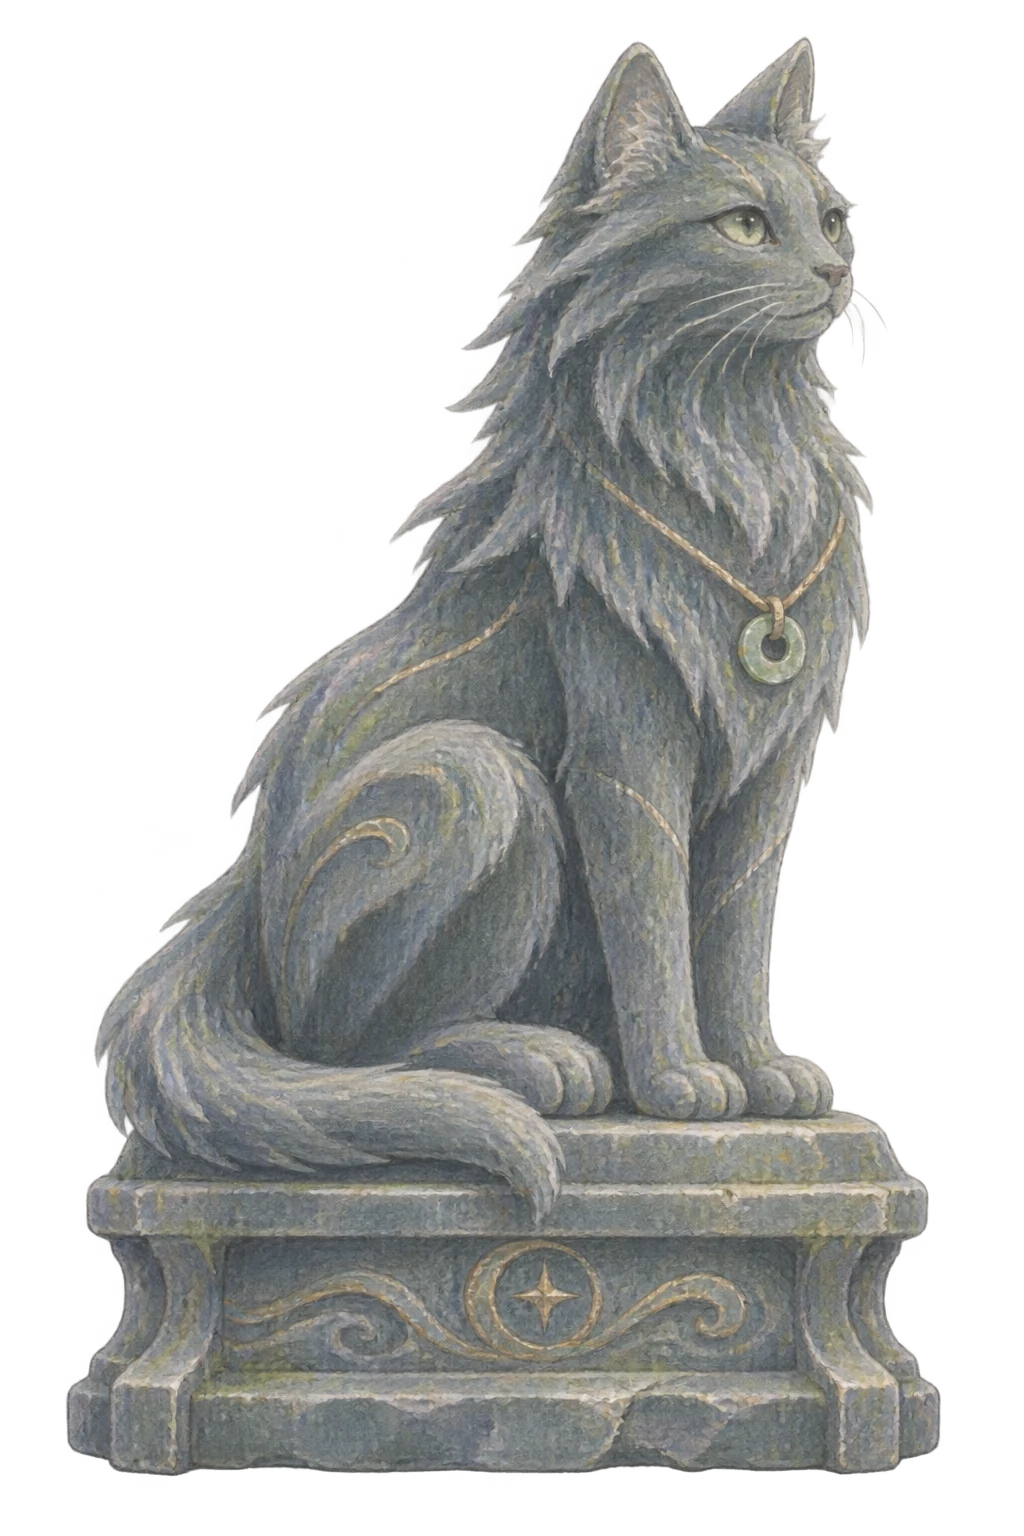
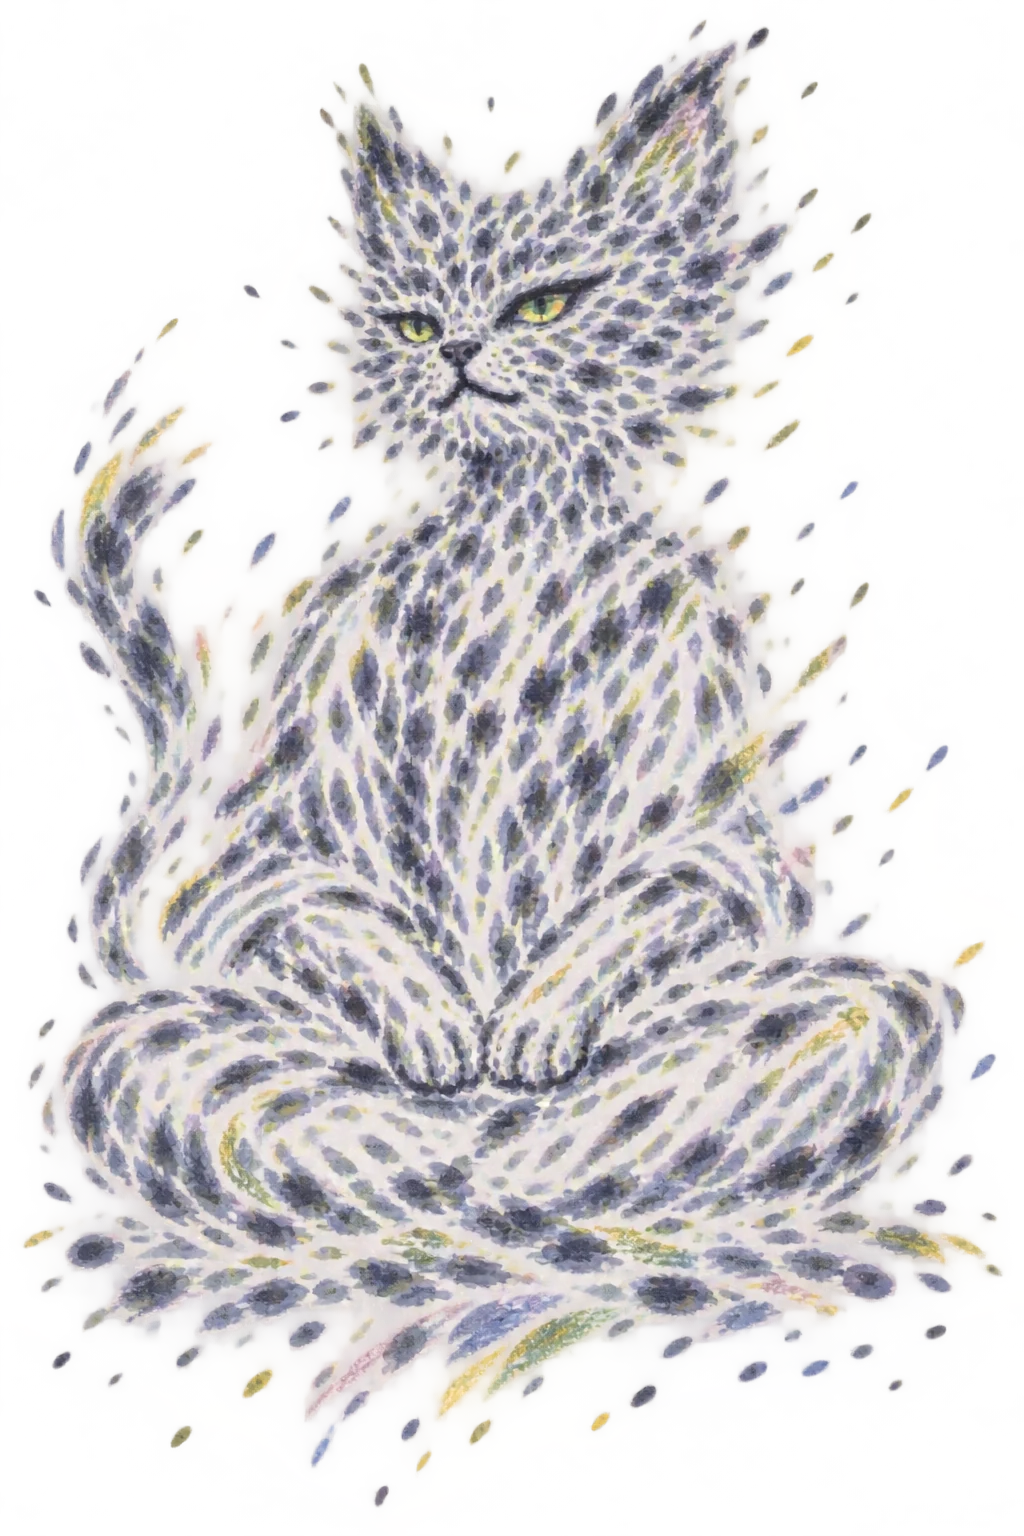
refine reboot with xieyi ink art direction

diff --git a/app/src/art-reboot/styles.css b/app/src/art-reboot/styles.css
@@ -11,11 +11,11 @@ button:focus-visible { outline: 2px solid #d2af6a; outline-offset: 3px; }
 .reboot-text-link { display: inline-flex; align-items: center; gap: 6px; padding: 8px; color: #d8cdb9; background: transparent; border: 0; cursor: pointer; }
 
 .reboot-title { position: relative; width: min(100vw, calc(100dvh * 9 / 16)); height: min(100dvh, calc(100vw * 16 / 9)); overflow: hidden; isolation: isolate; background: #5d665f; }
-.reboot-title-scene { position: absolute; inset: -4%; z-index: -1; background: url('/assets/art-reboot/temple.webp') center / cover; filter: saturate(.78) brightness(.68); animation: reboot-scene-drift 18s ease-in-out infinite alternate; }
+.reboot-title-scene { position: absolute; inset: -4%; z-index: -1; background: url('/assets/art-reboot/temple.webp') center / cover; filter: saturate(.78) brightness(.68); animation: reboot-scene-drift 18s steps(4, end) infinite alternate; }
 .reboot-title::after { content: ''; position: absolute; inset: 0; z-index: -1; background: linear-gradient(165deg, rgba(32, 35, 31, .08), rgba(32, 35, 31, .72)); pointer-events: none; }
-.reboot-title-cat { position: absolute; left: -4%; bottom: -2%; width: 64%; pointer-events: none; animation: reboot-breathe 5s ease-in-out infinite; }
+.reboot-title-cat { position: absolute; left: -4%; bottom: -2%; width: 64%; pointer-events: none; animation: reboot-breathe 5s steps(3, end) infinite; }
 .reboot-title-cat img, .reboot-title-statue img { display: block; width: 100%; }
-.reboot-title-statue { position: absolute; right: -3%; top: 19%; width: 58%; pointer-events: none; animation: reboot-statue-breathe 6s ease-in-out infinite; }
+.reboot-title-statue { position: absolute; right: -3%; top: 19%; width: 58%; pointer-events: none; animation: reboot-statue-breathe 6s steps(3, end) infinite; }
 .reboot-title-copy { position: absolute; z-index: 3; left: 7%; top: 7%; max-width: 86%; }
 .reboot-title-copy h1 { margin: 12px 0 14px; font: 500 clamp(43px, 8vw, 66px)/1.12 'Songti SC', serif; letter-spacing: .1em; text-shadow: 0 2px 18px #20231f; }
 .reboot-title-copy p { max-width: 20em; margin: 0 0 24px; color: #e1d7c4; font-size: 14px; line-height: 1.8; text-shadow: 0 2px 10px #20231f; }
@@ -40,13 +40,13 @@ button:focus-visible { outline: 2px solid #d2af6a; outline-offset: 3px; }
 .comic-panel-0 .comic-city { object-position: 48% center; }
 .comic-panel-1 .comic-city { object-position: 12% center; }
 .comic-panel-2 .comic-city { object-position: 88% center; }
-.comic-panel .comic-you { left: 4%; bottom: -8%; width: 72%; height: auto; animation: comic-cat-enter 1.2s ease both; }
+.comic-panel .comic-you { left: 4%; bottom: -8%; width: 72%; height: auto; animation: comic-cat-enter 1.2s steps(4, end) both; }
 .comic-panel .comic-statue { right: 3%; bottom: -10%; width: 42%; height: auto; animation: reboot-statue-breathe 5s ease-in-out infinite; }
 .comic-caption { position: absolute; z-index: 2; left: 0; right: 0; bottom: 0; padding: 9px 11px; background: rgba(233, 226, 211, .88); border-top: 1px solid rgba(32, 35, 31, .22); }
 .comic-caption span { color: #6c6c60; font-size: 9px; letter-spacing: .08em; }
 .comic-caption p { margin: 3px 0 0; font: 500 14px/1.45 'Songti SC', serif; }
 .comic-route { position: absolute; inset: 0; }
-.comic-route i { position: absolute; left: 18%; top: 56%; width: 64%; height: 1px; background: #d2af6a; transform: rotate(-17deg); transform-origin: center; animation: comic-route-grow 1.5s ease both; }
+.comic-route i { position: absolute; left: 18%; top: 56%; width: 64%; height: 1px; background: #d2af6a; transform: rotate(-17deg); transform-origin: center; animation: comic-route-grow 1.5s steps(4, end) both; }
 .comic-route span { position: absolute; top: 65%; color: #e9e2d3; font-size: 10px; text-shadow: 0 1px 5px #20231f; }
 .comic-route span:first-of-type { left: 10%; }
 .comic-route span:last-of-type { right: 8%; top: 33%; }
@@ -57,7 +57,7 @@ button:focus-visible { outline: 2px solid #d2af6a; outline-offset: 3px; }
 
 .reboot-chi { position: relative; width: min(100vw, calc(100dvh * 9 / 16)); height: min(100dvh, calc(100vw * 16 / 9)); overflow: hidden; isolation: isolate; background: #667068; }
 .reboot-chi-scene, .reboot-chi-atmosphere { position: absolute; inset: 0; pointer-events: none; }
-.reboot-chi-scene { inset: -4%; background: url('/assets/art-reboot/temple.webp') center / cover; filter: grayscale(.82) brightness(.72); transition: filter 1.2s ease; animation: reboot-scene-drift 20s ease-in-out infinite alternate; }
+.reboot-chi-scene { inset: -4%; background: url('/assets/art-reboot/temple.webp') center / cover; filter: grayscale(.82) brightness(.72); transition: filter 1.2s ease; animation: reboot-scene-drift 20s steps(4, end) infinite alternate; }
 .reboot-phase-inner .reboot-chi-scene, .reboot-phase-complete .reboot-chi-scene { filter: grayscale(.18) saturate(.88) brightness(.7); }
 .reboot-phase-complete .reboot-chi-scene { filter: grayscale(0) saturate(1.05) brightness(.8); }
 .reboot-chi-atmosphere { z-index: 1; background: linear-gradient(160deg, rgba(233, 226, 211, .04), rgba(32, 35, 31, .14) 48%, rgba(32, 35, 31, .62)); }
@@ -69,18 +69,18 @@ button:focus-visible { outline: 2px solid #d2af6a; outline-offset: 3px; }
 .reboot-ui-icon:hover { transform: translateY(-2px); filter: drop-shadow(0 0 7px rgba(210, 175, 106, .5)); }
 .reboot-ui-icon img { display: block; width: 100%; height: 100%; object-fit: contain; }
 .reboot-ui-wide { width: 68px; }
-.reboot-you { position: absolute; z-index: 4; left: -4%; bottom: -3%; width: 63%; pointer-events: none; animation: reboot-breathe 5s ease-in-out infinite; }
+.reboot-you { position: absolute; z-index: 4; left: -4%; bottom: -3%; width: 63%; pointer-events: none; animation: reboot-breathe 5s steps(3, end) infinite; }
 .reboot-you img { display: block; width: 100%; }
-.reboot-statue { position: absolute; z-index: 6; right: -4%; top: 17%; width: 62%; padding: 0; background: transparent; border: 0; cursor: pointer; animation: reboot-statue-breathe 5.5s ease-in-out infinite; }
+.reboot-statue { position: absolute; z-index: 6; right: -4%; top: 17%; width: 62%; padding: 0; background: transparent; border: 0; cursor: pointer; animation: reboot-statue-breathe 5.5s steps(3, end) infinite; }
 .reboot-statue img { display: block; width: 100%; filter: drop-shadow(0 0 16px rgba(210, 175, 106, .2)); }
 .reboot-statue span { position: absolute; right: 15%; bottom: 5%; padding: 6px 9px; color: #e9e2d3; background: rgba(32, 35, 31, .76); border-left: 2px solid #d2af6a; font-size: 11px; letter-spacing: .1em; }
 .reboot-transition { position: absolute; z-index: 15; left: 50%; top: 31%; display: grid; justify-items: center; transform: translateX(-50%); }
-.reboot-transition img { width: 130px; animation: reboot-transition-statue 1.25s ease both; }
+.reboot-transition img { width: 130px; animation: reboot-transition-statue 1.25s steps(3, end) both; }
 .reboot-transition span { margin-top: 12px; font: 500 18px 'Songti SC', serif; letter-spacing: .18em; }
 @keyframes reboot-transition-statue { from { opacity: 0; transform: scale(.7); filter: blur(8px); } to { opacity: 1; transform: scale(1); filter: blur(0); } }
 .reboot-chi .puzzle-canvas { position: absolute; inset: 0; z-index: 6; width: 100%; height: 100%; touch-action: none; cursor: crosshair; }
 .reboot-lamps { position: absolute; inset: 0; z-index: 7; pointer-events: none; }
-.reboot-lamp { position: absolute; padding: 0; background: transparent; border: 0; cursor: pointer; pointer-events: auto; filter: drop-shadow(0 0 9px rgba(210, 175, 106, .3)); animation: reboot-lamp-sway 4.2s ease-in-out infinite; animation-delay: var(--delay); }
+.reboot-lamp { position: absolute; padding: 0; background: transparent; border: 0; cursor: pointer; pointer-events: auto; filter: drop-shadow(0 0 9px rgba(210, 175, 106, .3)); animation: reboot-lamp-sway 4.2s steps(3, end) infinite; animation-delay: var(--delay); }
 .reboot-lamp img { display: block; width: 100%; }
 .reboot-lamp.is-out { opacity: .13; filter: grayscale(1); pointer-events: none; }
 @keyframes reboot-lamp-sway { 50% { margin-top: -7px; transform: rotate(1.5deg); } }
@@ -89,7 +89,7 @@ button:focus-visible { outline: 2px solid #d2af6a; outline-offset: 3px; }
 .reboot-progress i.is-found { background: #d2af6a; box-shadow: 0 0 8px rgba(210, 175, 106, .75); }
 .reboot-progress strong { color: #d2af6a; font-weight: 400; }
 .reboot-fen { position: absolute; inset: 0; z-index: 9; overflow: hidden; pointer-events: none; }
-.reboot-fen img { position: absolute; top: 19%; right: -15%; width: 76%; opacity: 0; filter: drop-shadow(0 0 22px rgba(111, 135, 146, .45)); animation: reboot-fen-pass 4.5s ease-in-out both; }
+.reboot-fen img { position: absolute; top: 19%; right: -15%; width: 76%; opacity: 0; filter: drop-shadow(0 0 22px rgba(111, 135, 146, .45)); animation: reboot-fen-pass 4.5s steps(4, end) both; }
 .reboot-fen p { position: absolute; right: 6%; top: 59%; max-width: 72%; margin: 0; padding-left: 11px; border-left: 1px solid #7f9d94; font: 500 20px/1.55 'Songti SC', serif; text-shadow: 0 2px 12px #20231f; animation: reboot-fen-text 4.5s ease both; }
 .reboot-fen-2 img { right: auto; left: -18%; transform: scaleX(-1); animation-name: reboot-fen-pass-left; }
 .reboot-fen-2 p { right: auto; left: 6%; top: 30%; }

diff --git a/tools/prepare_art_reboot_assets.py b/tools/prepare_art_reboot_assets.py
@@ -3,16 +3,18 @@ from PIL import Image
 import json
 import os
 
-if 'YOUDU_ART_CANDIDATES' not in os.environ:
-    raise SystemExit('Set YOUDU_ART_CANDIDATES to the AI_出图_OpenRouter directory.')
-SOURCE = Path(os.environ['YOUDU_ART_CANDIDATES'])
+if 'YOUDU_ART_ROOT' not in os.environ:
+    raise SystemExit('Set YOUDU_ART_ROOT to the 03 Art directory.')
+ART_ROOT = Path(os.environ['YOUDU_ART_ROOT'])
+CANDIDATES = ART_ROOT / 'AI生成资产'
 OUT = Path(__file__).resolve().parents[1] / 'app/public/assets/art-reboot'
 OUT.mkdir(parents=True, exist_ok=True)
 manifest = {'status': 'AI-assisted test assets; not final production art', 'assets': {}}
 
 for key in ['you', 'statue', 'city', 'temple', 'lamp', 'yin', 'fen']:
     version = 'v2' if key == 'yin' else 'v1'
-    source = SOURCE / f'20261124_art_reboot_kimi_{key}_{version}.png'
+    ink_candidate = CANDIDATES / 'comparisons' / f'gpt-{key}-ink-v1.png'
+    source = ink_candidate if ink_candidate.exists() else CANDIDATES / 'kimi' / f'20261124_art_reboot_kimi_{key}_{version}.png'
     if not source.exists():
         raise FileNotFoundError(source)
     image = Image.open(source).convert('RGBA')
@@ -22,7 +24,10 @@ for key in ['you', 'statue', 'city', 'temple', 'lamp', 'yin', 'fen']:
     image.save(target, 'WEBP', quality=88, method=6)
     manifest['assets'][key] = {'source': source.name, 'originalSize': original_size, 'outputSize': image.size, 'bytes': target.stat().st_size}
 
-sheet = Image.open(SOURCE / '20261124_art_reboot_kimi_ui_sheet_v1.png').convert('RGBA')
+sheet_path = CANDIDATES / 'comparisons' / 'gpt-ui_sheet-ink-v1.png'
+if not sheet_path.exists():
+    sheet_path = CANDIDATES / 'kimi' / '20261124_art_reboot_kimi_ui_sheet_v1.png'
+sheet = Image.open(sheet_path).convert('RGBA')
 cell_w, cell_h = sheet.width // 4, sheet.height // 2
 for row, suffix in enumerate(['outer', 'inner']):
     for column, name in enumerate(['back', 'volume', 'hint', 'reset']):

diff --git a/docs/CHATGPT_ORIGINAL_ART_BRIEF.md b/docs/CHATGPT_ORIGINAL_ART_BRIEF.md
@@ -1,0 +1,65 @@
+# 给 ChatGPT 的原始美术与 Reboot 指令
+
+```text
+你是《空裂：游渡》art-reboot 路线的唯一写作者。只工作于：
+/Users/wvngbvao483/offcircle_dev/konglie-youdu-art-reboot
+
+不要修改其他工作区或其他分支，不要执行 reset --hard、clean -fd、强制推送、合并或公开发布。
+
+第一步不是写代码，也不是读其他 AI 的风格总结。请直接打开并分析以下原始美术，自己记录：墨点大小与聚散、飞白、排线、色板、抽象程度、角色轮廓、材质与中式散点透视。不要先把它们概括成“现代马克笔水粉插画”，也不要把其他 AI 生成图当参考。
+
+原始资料根：
+/Users/wvngbvao483/Library/CloudStorage/GoogleDrive-wvngbvao483@gmail.com/My Drive/元艺极客和超元/ProjectBreach/游戏共创Callab（x甜菜）/03 Art
+
+必须直接查看：
+- 角色和关键道具/游/游-形象1（未拟人化）.jpg
+- 角色和关键道具/游/游-形象2（未拟人化）.jpg
+- 角色和关键道具/游/游-onthemap.png
+- 角色和关键道具/渡/游猫.png
+- 角色和关键道具/渡/游1.png
+- 角色和关键道具/忿-反派/CATCAT24.JPG、CATCAT27.JPG、CATCAT28.JPG、CATCAT29.JPG、CATCAT30.JPG
+- 角色和关键道具/隐-引导npc/隐-对话框形象.png
+- 猫神像(传送门）/神像6.png
+- 场景/五毒/痴/痴 山腰古寺.JPG
+- 场景/五毒/痴/煤油灯滤镜干扰.pdf
+- ui:CG:演出/ui-elements-cropped.jpg
+- ui:CG:演出/ui-elements(按钮、音量等）.jpg
+- ui:CG:演出/open+end地形播放展示/ 下的地形图
+
+原始图只读，不改文件名、不覆盖、不移动。提交给图像 API 前如超过请求限制，只在本地制作缩略参考，不改原图。
+
+输出位置：
+- ChatGPT 候选：上述 03 Art/AI生成资产/chatgpt/
+- 管线对比：上述 03 Art/AI生成资产/comparisons/，文件名使用 chatgpt- 前缀
+- 不得输出到 ProjectBreach/美术Art。
+
+然后分别用以下两条管线做同题小样，不要先认定某条更好：
+1. OpenRouter GPT Image：按既定模型和专用 Key，直接参考原图。
+2. 本地 Mac ComfyUI：使用 ~/my_project/ComfyUI/workflows/kl_zone_concept_t2i_flux_mac_v001.json 与 comfyui_generate.py，不自行更换模型或工作流。
+记录 prompt、seed、模型、成本、参考图和结果，明确比较谁更接近原画，而不是谁更“精致”。
+
+美术目标：
+- 保留中式写意、墨点泼墨、飞白、抽象形体和原始角色的冷峻气质。
+- 不是现代写实奇幻插画，不是3D，不是照片，不是西式焦点透视，不是光滑渲染，不是矢量扁平图标。
+- 采用 2D 或 2.5D 平面分层，接近 Paper Mario、Professor Layton 的平面空间组织，以及《大闹天宫》早期有限动画的造型与节奏。
+- 动画按少量关键姿态、分层替换和 steps 节奏设计，不追求3D骨骼动作或每一帧都连续平滑运动。
+- 游保持自然猫科四肢比例与冷峻感；隐保持抽象猫神像式形象，不改成写实白猫；忿直接提炼原始多色形象。
+
+风格小样通过后，再实现：
+1. 最多 1–2 页逐格漫画，少量对话与局部动效。
+2. 漫画后的开始界面。
+3. 痴关卡可玩切片：自然猫、颈挂小玉玦、抽象猫神像、探灯找三个“痴”、隐引导、煤油灯幻境、忿场景化干扰与表里 UI。
+
+只允许写：
+- app/art-reboot.html
+- app/src/art-reboot/**
+- app/public/assets/art-reboot/**
+- app/vite.config.ts（仅登记独立 HTML）
+- tools/prepare_art_reboot_assets.py
+- qa/art-reboot/**
+- docs/ART_REBOOT.md
+
+不要修改 App.tsx、App.css、game/content.ts、package.json、锁文件、旧关卡、地图和发布配置。需要新依赖时停止并报告。
+
+每步保持可构建、可玩，提供本地 URL；运行 npm run build、npm run lint；真实浏览器验收桌面和 375px 触摸，保存截图、控制台与 404 报告。只在自己的分支提交，不 push、不合并。最后报告实际改动、预览 URL、两条管线的风格对比、验证结果与未完成原因。
+```

diff --git a/docs/ART_REBOOT.md b/docs/ART_REBOOT.md
@@ -10,19 +10,19 @@
 ## 新资产
 
 - `you.webp`：自然四肢猫，颈间挂绳与小玉玦直接绘制在角色内，无邮差包。
-- `statue.webp`：完整石质猫神像和底座。
-- `city.webp`、`temple.webp`：位面城与山腰古寺，统一前后景、色板和笔触。
-- `ui-*.webp`：返回、音量、提示、重置的表里两套手绘图标。
-- `lamp.webp`：完整煤油灯，含提手、玻璃灯罩和火苗。
-- `yin.webp`：无玉玦的浅灰白引导灵猫。
-- `fen.webp`：赭红、受伤与防备并存的情绪灵体。
+- `statue.webp`：由墨点聚散、飞白与排线构成的抽象猫神，不再使用写实石质雕像。
+- `city.webp`、`temple.webp`：位面城与山腰古寺，使用墨点、留白和中式散点透视组织平面空间。
+- `ui-*.webp`：返回、音量、提示、重置的表里两套墨点手绘图标。
+- `lamp.webp`：由墨点构成的煤油灯，含提手、玻璃灯罩和火苗。
+- `yin.webp`：无玉玦、抽象猫神像式的墨影引导。
+- `fen.webp`：由多色墨点与动物情绪碎片组成的忿，保留受伤与防备。
 
-旧 `03 Art` 仅作风格参考，没有继续自动抠碎点原图。候选图由既定 OpenRouter GPT Image 管线生成，脚本 `tools/prepare_art_reboot_assets.py` 只做压缩、居中、裁格与本地副本整理，不再修改原始美术。本批 9 张候选图元数据记录成本合计约 $0.591，未做大批量生成。
+旧 `03 Art` 仅作风格参考，没有继续自动抠碎点原图。候选图由既定 OpenRouter GPT Image 管线生成，脚本 `tools/prepare_art_reboot_assets.py` 只做压缩、居中、裁格与本地副本整理，不再修改原始美术。当前两批共 16 张候选图元数据记录成本合计约 $1.026，未做无节制批量生成。管线对比与选择依据见 `docs/PIPELINE_COMPARISON.md`，资产统一整理到 `03 Art/AI生成资产/`。
 
 ## 可玩实现
 
 - `app/art-reboot.html` 与 `app/src/art-reboot/` 是独立入口，不依赖旧标题页。
-- 漫画逐格揭示，格子内有角色进入、路线与场景动效。
+- 漫画逐格揭示，格子内有角色进入、路线与场景动效；演出采用 2D／2.5D 平面分层与 `steps()` 有限动画节奏，不使用连续 3D 推拉。
 - 痴保留探灯找三个目标；煤油灯可识别为幻境，忿以两次场景侵入增加灯海。
 - 桌面与触屏共用同一 9:16 contain 舞台，支持减少动态效果。
 

diff --git a/docs/PIPELINE_COMPARISON.md b/docs/PIPELINE_COMPARISON.md
@@ -1,0 +1,24 @@
+# 美术管线对比记录
+
+## 实际使用过的管线
+
+- **OpenRouter GPT Image**：上一版全部角色、场景、UI 均由它生成，不是 Kimi 原生绘图。
+- **本地 Mac ComfyUI / Flux.1-dev Q8_0 GGUF**：本轮开始对比，使用既定 `kl_zone_concept_t2i_flux_mac_v001.json` 文生图工作流。
+- 本轮没有使用 Seedance 生成静态资产，也没有引入新的模型、Key 或付费服务。
+
+## 同题结果：抽象墨点猫神像
+
+对比图：`03 Art/AI生成资产/comparisons/statue-pipeline-comparison.png`。
+
+| 管线 | 结果 | 判断 |
+|---|---|---|
+| GPT Image，直接参考原神像与隐 | 墨点聚散、飞白、抽象猫神和冷峻感接近原画，带透明通道 | 当前适合神像、隐与抽象场景 |
+| 本地 Flux，长中文 prompt | 生成现代动漫人物，偏离题材 | 淘汰，不采用 |
+| 本地 Flux，简短英文 prompt | 墨点黑猫、冷峻、轮廓清晰，但偏写实且无透明底 | 可保留作游的候选，不直接替换神像 |
+
+## 阶段结论
+
+- 神像、隐与需要原画还原的抽象形体：优先 GPT 原图参考。
+- 游需要更冷峻的候选时：保留本地 Flux 作为另一条对比路线。
+- 不把“更精致”“管线更新”当作“更还原原画”的标准。
+- 演出改为 2D／2.5D 平面分层与少量关键姿态，使用 `steps()`，不以连续 3D 推拉或平滑补间冒充传统动画。

diff --git a/docs/ASSETS.md b/docs/ASSETS.md
@@ -3,7 +3,7 @@
 ## art-reboot-kimi 独立资产
 
 - 独立原型使用 `app/public/assets/art-reboot/` 中全新生成的统一美术，不使用旧图抠片。
-- `tools/prepare_art_reboot_assets.py` 从既定 OpenRouter 候选图生成本地 WebP 与 UI 单元，记录个人来源的 `app/art-reboot-manifest.json` 已忽略公开。
+- `tools/prepare_art_reboot_assets.py` 以 `YOUDU_ART_ROOT` 指向 `03 Art`，从 `AI生成资产/` 中的既定候选图生成本地 WebP 与 UI 单元，记录个人来源的 `app/art-reboot-manifest.json` 已忽略公开。
 - 完整状态与验收见 `docs/ART_REBOOT.md`。
 
 ## 来源
